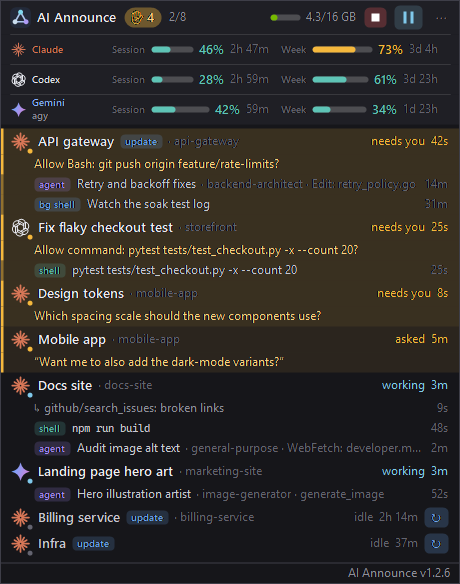
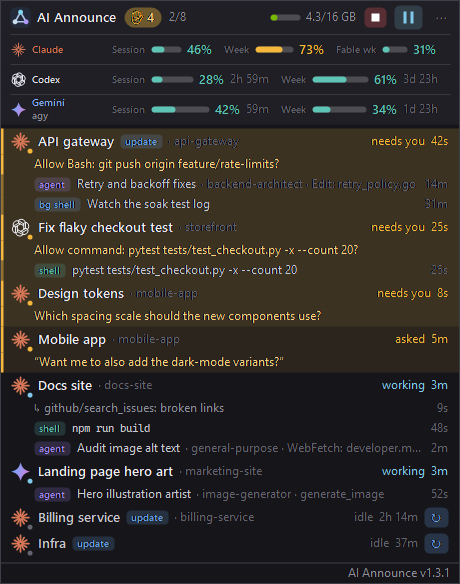
Show the Fable weekly limit next to session and week
Claude's usage row stopped at two cells, so a model-scoped weekly limit like
Fable's never made it on screen. It now draws up to three: Session, Week and
the first model limit. On plans without a 5-hour window the empty session
cell gives way, leaving Week and Fable wk with their reset times.

A 5-hour window is picked up whether it arrives in limits[] or only as the
older five_hour field, and always sorts first.

Changed region(s): [[0.3957, 0.0616, 0.9435, 0.0925], [0.9435, 0.9555, 0.9739, 0.9863], [0.3348, 0.0616, 0.3652, 0.0925]]

diff --git a/tests/ClaudeUsageChecks.cs b/tests/ClaudeUsageChecks.cs
@@ -56,6 +56,47 @@ static class ClaudeUsageChecks
         rateLimited = false;
         using (var recovered = new ClaudeUsageMonitor(dir, http, state))
             check((await recovered.RefreshAsync())!.Live, "Claude retries successfully after the saved cooldown expires");
+        // Shape of a 2026 plan response: a weekly limit plus a Fable-scoped weekly limit, no session window.
+        var scopedHandler = new Handler(() => new HttpResponseMessage(HttpStatusCode.OK) { Content = new StringContent("""
+            {"five_hour":null,"seven_day":{"utilization":3,"resets_at":"2099-11-18T12:59:59Z"},"limits":[
+              {"kind":"weekly_all","group":"weekly","percent":3,"severity":"normal","resets_at":"2099-11-18T12:59:59Z","scope":null},
+              {"kind":"weekly_scoped","group":"weekly","percent":4,"severity":"normal","resets_at":"2099-11-18T12:59:59Z",
+               "scope":{"model":{"id":null,"display_name":"Fable"},"surface":null}}]}
+            """) });
+        using var scopedHttp = new HttpClient(scopedHandler);
+        using (var scoped = new ClaudeUsageMonitor(dir, scopedHttp, Path.Combine(dir, "scoped.json")))
+        {
+            var info = (await scoped.RefreshAsync())!;
+            var cells = UsageParsing.Shown(info.Limits, "No data reported.");
+            check(cells.Select(c => c.Label).SequenceEqual(new[] { "Week", "Fable wk" }) && cells[1].Percent == 4,
+                "The Fable weekly limit takes the cell of a session window the plan doesn't report");
+        }
+        async Task<IReadOnlyList<string>> Cells(string body)
+        {
+            using var h = new HttpClient(new Handler(() => new HttpResponseMessage(HttpStatusCode.OK) { Content = new StringContent(body) }));
+            using var m = new ClaudeUsageMonitor(dir, h, Path.Combine(dir, Guid.NewGuid().ToString("N") + ".json"));
+            var info = (await m.RefreshAsync())!;
+            return UsageParsing.Shown(info.Limits, "").Select(c => c.Available ? $"{c.Label} {c.Percent:0}" : $"{c.Label} -").ToList();
+        }
+        const string fiveHour = "\"five_hour\":{\"utilization\":55,\"resets_at\":\"2099-11-11T18:00:00Z\"}";
+        const string week = """{"kind":"weekly_all","group":"weekly","percent":30,"resets_at":"2099-11-18T12:59:59Z","scope":null}""";
+        const string fable = """{"kind":"weekly_scoped","group":"weekly","percent":20,"resets_at":"2099-11-18T12:59:59Z","scope":{"model":{"display_name":"Fable"},"surface":null}}""";
+        const string session = """{"kind":"session","group":"session","percent":55,"resets_at":"2099-11-11T18:00:00Z","scope":null}""";
+        var listed = await Cells("{" + fiveHour + ",\"limits\":[" + week + "," + fable + "," + session + "]}");
+        check(listed.SequenceEqual(new[] { "Session 55", "Week 30", "Fable wk 20" }),
+            "A 5-hour plan shows session, week and Fable, session first wherever limits[] lists it");
+        var named = await Cells("{" + fiveHour + ",\"limits\":[" + week + "," + fable + "]}");
+        check(named.SequenceEqual(new[] { "Session 55", "Week 30", "Fable wk 20" }),
+            "A 5-hour window reported only as five_hour still joins limits[]'s weekly entries");
+
+        var withSession = UsageParsing.Shown(new[] {
+            new UsageLimit("Session", 40, null, ""), new UsageLimit("Week", 70, null, ""),
+            new UsageLimit("Fable wk", 31, null, ""), new UsageLimit("Opus wk", 12, null, "") }, "");
+        check(withSession.Select(c => c.Label).SequenceEqual(new[] { "Session", "Week", "Fable wk" }),
+            "Session, week and the first model limit share the row; the rest stay in the tooltip");
+        check(UsageParsing.Shown(new[] { new UsageLimit("Week", 70, null, "") }, "").Select(c => c.Label).SequenceEqual(new[] { "Session", "Week" }),
+            "Without a model limit the row still shows both windows");
+
         using var empty = new ClaudeUsageMonitor(Path.Combine(dir, "no-login"), http, Path.Combine(dir, "no-login-state.json"));
         check((await empty.RefreshAsync())!.Message!.Contains("No saved Claude login"), "Missing credentials retain a distinct diagnostic");
     }

diff --git a/src/Usage.cs b/src/Usage.cs
@@ -245,22 +245,30 @@ sealed class ClaudeUsageMonitor : IDisposable
             }
         }
 
-        if (limits.Count == 0)
+        // The named windows fill in whatever limits[] left out, so a 5-hour window reported only
+        // as five_hour still shows up next to limits[]'s weekly and model-scoped entries.
+        bool fromList = limits.Count > 0;
+        foreach (var (key, label) in new[] { ("five_hour", "Session"), ("seven_day", "Week"), ("seven_day_opus", "Opus wk"), ("seven_day_sonnet", "Sonnet wk") })
         {
-            foreach (var (key, label) in new[] { ("five_hour", "Session"), ("seven_day", "Week"), ("seven_day_opus", "Opus wk"), ("seven_day_sonnet", "Sonnet wk") })
-            {
-                var window = Json.Get(u, key);
-                if (window.ValueKind == JsonValueKind.Object && TryNumber(Json.Get(window, "utilization"), out double percent))
-                    limits.Add(new UsageLimit(label, percent, ParseTime(Json.Str(window, "resets_at")), ""));
-            }
+            if (fromList && key is not ("five_hour" or "seven_day")) continue;
+            if (limits.Any(l => l.Label == label)) continue;
+            var window = Json.Get(u, key);
+            if (window.ValueKind == JsonValueKind.Object && TryNumber(Json.Get(window, "utilization"), out double percent))
+                limits.Add(new UsageLimit(label, percent, ParseTime(Json.Str(window, "resets_at")), ""));
         }
-        return limits.Count == 0 ? null : new UsageInfo(limits, plan, fetchedAt, live);
+        // Stable: model-scoped limits keep the order Claude sent them in.
+        var ordered = limits.OrderBy(l => Rank(l.Label)).ToList();
+        return ordered.Count == 0 ? null : new UsageInfo(ordered, plan, fetchedAt, live);
     }
+
+    static int Rank(string label) => label switch { "Session" => 0, "Week" => 1, _ => 2 };
 
     static string LabelFor(JsonElement item)
     {
         string kind = Json.Str(item, "kind") ?? "";
-        if (kind == "session") return "Session";
+        string group = Json.Str(item, "group") ?? "";
+        bool scoped = Json.Get(item, "scope").ValueKind is JsonValueKind.Object or JsonValueKind.String;
+        if (!scoped && (kind is "session" or "five_hour" or "session_all" || group is "session" or "five_hour")) return "Session";
         if (kind == "weekly_all") return "Week";
         // weekly_scoped: "scope": { "model": { "display_name": "Fable" }, "surface": null }
         var scope = Json.Get(item, "scope");
@@ -273,7 +281,7 @@ sealed class ClaudeUsageMonitor : IDisposable
             _ => null,
         };
         if (!string.IsNullOrWhiteSpace(scopeName))
-            return Json.Str(item, "group") == "weekly" ? $"{scopeName} wk" : scopeName!;
+            return group switch { "weekly" => $"{scopeName} wk", "session" or "five_hour" => $"{scopeName} 5h", _ => scopeName! };
         return kind.Length == 0 ? "Limit" : char.ToUpperInvariant(kind[0]) + kind[1..].Replace('_', ' ');
     }
 

diff --git a/src/OverlayForm.cs b/src/OverlayForm.cs
@@ -647,8 +647,8 @@ sealed class OverlayForm : Form
         g.DrawRectangle(pen, 0, 0, size.Width - 1, size.Height - 1);
     }
 
-    // Plan usage under the header: session window and weekly window, plus any model-scoped
-    // weekly limit once it's worth looking at. Every limit is in the tooltip.
+    // Plan usage under the header: session window, weekly window and a model-scoped weekly
+    // limit when the plan has one. Every limit is in the tooltip.
     void PaintUsage(Graphics g, Row row, bool hovered)
     {
         var r = row.Bounds;
@@ -662,8 +662,8 @@ sealed class OverlayForm : Form
         Draw(g, label, fonts.Tag, new Rectangle(r.Left + Px(32), r.Top, Px(74), info.Scope == null ? r.Height : Px(16)), BrandIcons.ColorFor(info.Provider));
         if (info.Scope != null)
             Draw(g, info.Scope, fonts.Tag, new Rectangle(r.Left + Px(32), r.Top + Px(14), Px(76), Px(14)), Palette.Dim);
-        var shown = UsageParsing.Windows(info.Limits, "No data reported.").Take(2).ToList();
-        int cellWidth = (r.Right - Px(10) - left) / 2;
+        var shown = UsageParsing.Shown(info.Limits, "No data reported.");
+        int cellWidth = (r.Right - Px(10) - left) / shown.Count;
         for (int i = 0; i < shown.Count; i++)
             PaintLimit(g, new Rectangle(left + i * cellWidth, r.Top, cellWidth - Px(12), r.Height), shown[i]);
     }

diff --git a/src/ProviderUsage.cs b/src/ProviderUsage.cs
@@ -99,6 +99,16 @@ static class UsageParsing
             ?? new UsageLimit(label, 0, null, "", false, missing)).Concat(all.Where(l => l.Label is not ("Session" or "Week"))).ToList();
     }
 
+    // The cells a usage row draws: session and week, then model-scoped limits such as
+    // "Fable wk". With three or more limits, a placeholder for a window the plan doesn't
+    // report gives up its cell to a real one. Never fewer than two cells, never more than three.
+    public static IReadOnlyList<UsageLimit> Shown(IEnumerable<UsageLimit> limits, string missing)
+    {
+        var cells = Windows(limits, missing).ToList();
+        while (cells.Count > 2 && cells.FindLastIndex(l => !l.Available) is int i and >= 0) cells.RemoveAt(i);
+        return cells.Take(3).ToList();
+    }
+
     public static UsageInfo Cached(UsageInfo info, string message) => info with { Live = false, Message = message };
 
     // No redirects: bearer tokens are sent only to the intended provider host.

diff --git a/README.md b/README.md
@@ -41,7 +41,7 @@ Unzip somewhere permanent before pinning it or turning on Start with Windows: bo
 - **✋ Needs you.** Amber row, pulsing hand, and a toast when a session is blocked on you: permission prompt (shows the command or file), `AskUserQuestion` (shows the question), plan approval, MCP input. Also when Claude ended its last reply with a question.
 - **✔ Finished.** A toast when a working session settles idle, so you know its turn is done: "✔ Docs site finished", with how long it worked. Click it to jump to that terminal. The toast is silent by default; turn on **Play a sound** under **When a session finishes** for a short two-note chime that's distinct from the needs-you sound. Brief wake-ups don't count, a turn that ends on a question gets the needs-you alert instead, and sessions you paused or stopped from the overlay aren't announced.
 - **VRAM.** Used/total for the first NVIDIA GPU via NVML, with a bar. Hover the header for load %.
-- **Plan usage.** Separate Claude, Codex, and Gemini (agy) rows show session and weekly quotas **used**, with reset countdowns. agy usage comes exclusively from Gemini model quotas; Claude/GPT, non-Gemini, and shared account totals are excluded. Bars turn yellow at 70% and red at 90%. Hover for the source, freshness, exact reset times, and additional model limits; click to refresh. A dash means the window is not reported or its data is unavailable. Weekly-only Codex plans do not invent a session limit. Passed resets are marked until fresh data arrives.
+- **Plan usage.** Separate Claude, Codex, and Gemini (agy) rows show session and weekly quotas **used**, with reset countdowns. agy usage comes exclusively from Gemini model quotas; Claude/GPT, non-Gemini, and shared account totals are excluded. Claude's row adds a model-specific weekly limit, such as Fable's, when your plan has one: Session, Week and Fable wk side by side on 5-hour plans, Week and Fable wk on plans without a 5-hour window. Bars turn yellow at 70% and red at 90%. Hover for the source, freshness, exact reset times, and any further model limits; click to refresh. A dash means the window is not reported or its data is unavailable. Weekly-only Codex plans do not invent a session limit. Passed resets are marked until fresh data arrives.
 - **Taskbar button.** A pinnable, provider-neutral network icon, also used in the tray and header. Its progress bar is the usage limit closest to running out, it gets a ✋ badge while a session needs you, and hovering it shows the overlay as the thumbnail. Clicking it shows or hides the overlay.
 
 - **Update tag and ↻ restart.** Sessions running an older Claude Code build than the newest one installed get a blue `update` tag. When such a session is idle and was started from a shell (pwsh, Windows PowerShell, cmd, bash), a ↻ button sits on the right of its row. It exits Claude and types `claude --resume <session id>` into that same shell. The conversation picks up where it was, on the new build, in the same tab; your other launch flags are kept. Right-click any idle session for **Restart session**, or use **Restart idle sessions on old builds** in the `⋯` menu to cycle them all (staggered 1.5 s apart).
